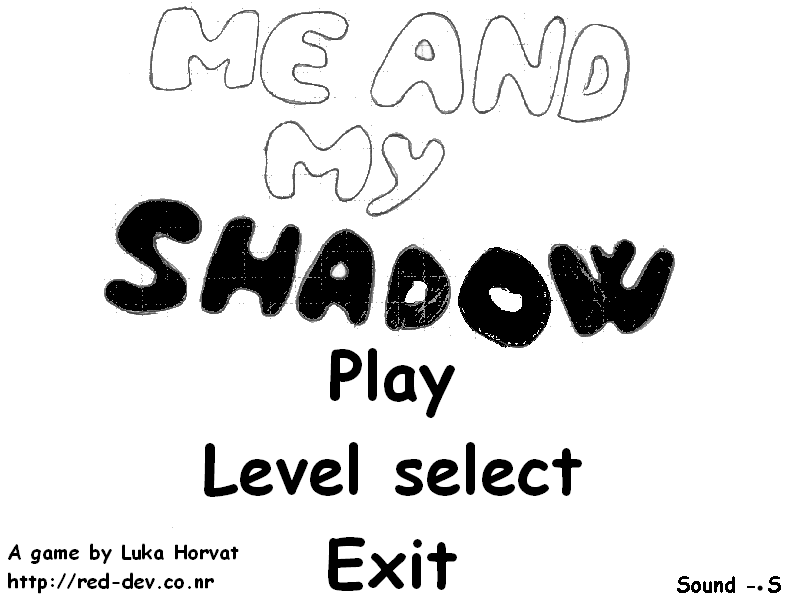
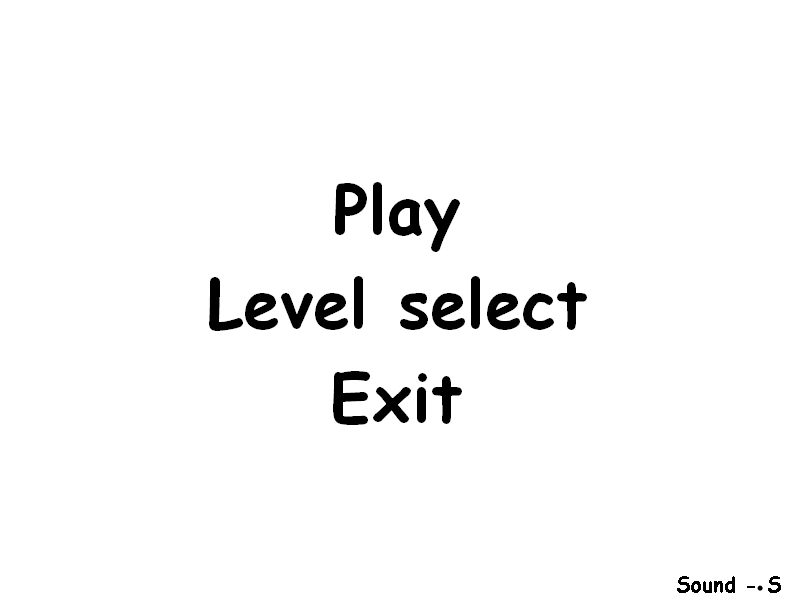
Rearranged title menu

diff --git a/src/Title_Menu.cpp b/src/Title_Menu.cpp
@@ -24,9 +24,9 @@ Menu::Menu()
 {
 	s_menu = load_image("data/gfx/menu.png");
 
-	play.x =  330; play.y =  350; play.w = 455 - 330; play.h = 405 - 350;
-	level.x = 200; level.y = 444; level.w = 580 - 200; level.h = 500 - 444;
-	exit.x = 325; exit.y = 540; exit.w = 450 - 325; exit.h = 590 - 540;
+	play.x =  300; play.y =  150; play.w = 200; play.h = 100;
+	level.x = 200; level.y = 260; level.w = 380; level.h = 100;
+	exit.x = 300; exit.y = 360; exit.w = 200; exit.h = 100;
 
 }
 

diff --git a/src/LevelEditor.cpp b/src/LevelEditor.cpp
@@ -367,6 +367,7 @@ void LevelEditor::show_current_object()
 					break;
 				}
 
+
 			case TYPE_SHADOW_BLOCK:
 				{
 					apply_surface ( grid[g].x - camera.x, grid[g].y - camera.y, s_shadowblock, screen, NULL );
